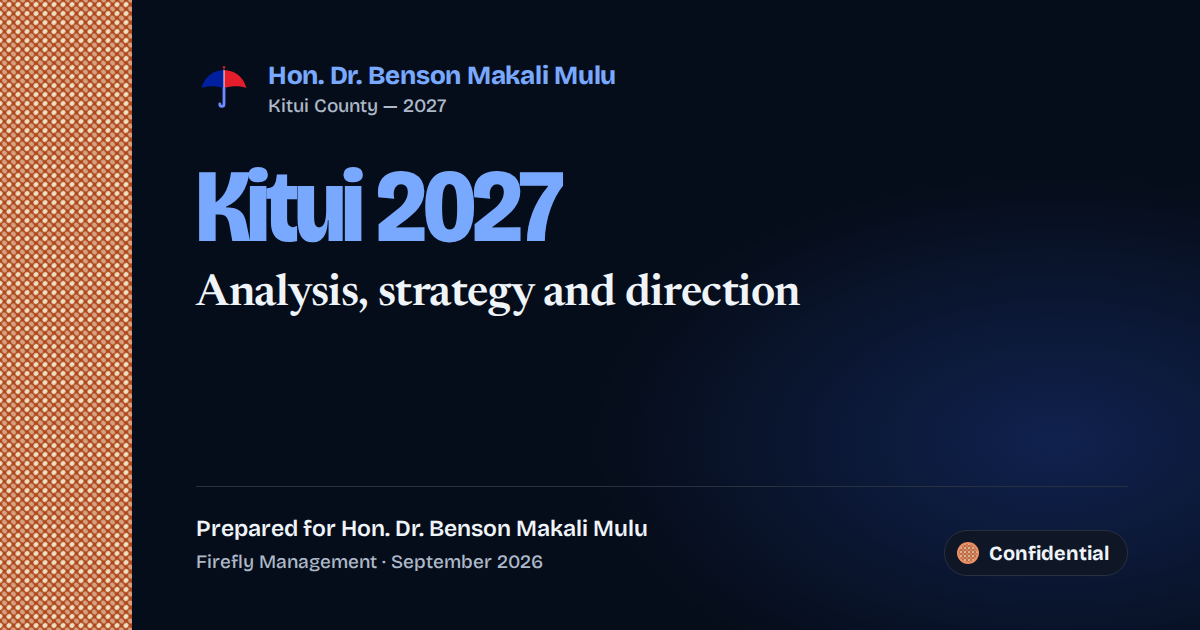
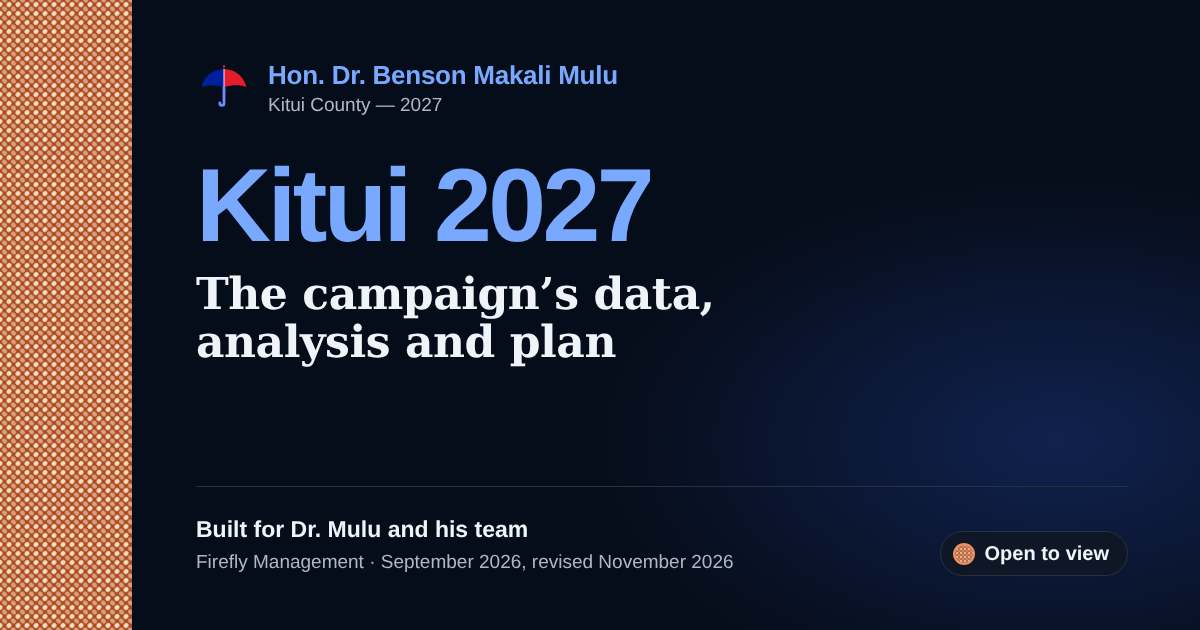
Page title and share card in the built voice
The browser-tab and link-preview title read 'Kitui 2027 — Analysis, Strategy
and Direction', the old proposal framing. It now matches the Opening: 'Kitui
2027 — The campaign's data, analysis and plan'. The description uses the
Opening's approved subtitle and seal. The share image (public/og, rebuilt by
scripts/build-og-image.mjs) says 'Built for Dr. Mulu and his team' and 'Open
to view' in place of 'Prepared for' and 'Confidential'.

Claude-Session: https://claude.ai/code/session_01QvSXVJtaj596aPZRiHUfY2

diff --git a/app/layout.tsx b/app/layout.tsx
@@ -58,9 +58,9 @@ export const viewport: Viewport = {
   ],
 };
 
-const TITLE = 'Kitui 2027 — Analysis, Strategy and Direction';
+const TITLE = 'Kitui 2027 — The campaign’s data, analysis and plan';
 const DESCRIPTION =
-  'Analysis, strategy and direction for the existing digital operation of Hon. Dr. Benson Makali Mulu, Kitui County. Prepared by Firefly Management, September 2026, revised November 2026.';
+  'Built by Firefly Management for Hon. Dr. Benson Makali Mulu, MP for Kitui Central and gubernatorial aspirant, Kitui County, and for his team. Open to view; the team signs in to edit.';
 
 /**
  * The share card, and why there is one.
@@ -81,7 +81,7 @@ const OG_IMAGE = {
   url: '/og/kitui-2027.png',
   width: 1200,
   height: 630,
-  alt: 'Kitui 2027 — Analysis, strategy and direction. Prepared for Hon. Dr. Benson Makali Mulu. Firefly Management, September 2026, revised November 2026.',
+  alt: 'Kitui 2027 — The campaign’s data, analysis and plan. Built for Dr. Mulu and his team. Firefly Management, September 2026, revised November 2026. Open to view.',
 };
 
 /**
